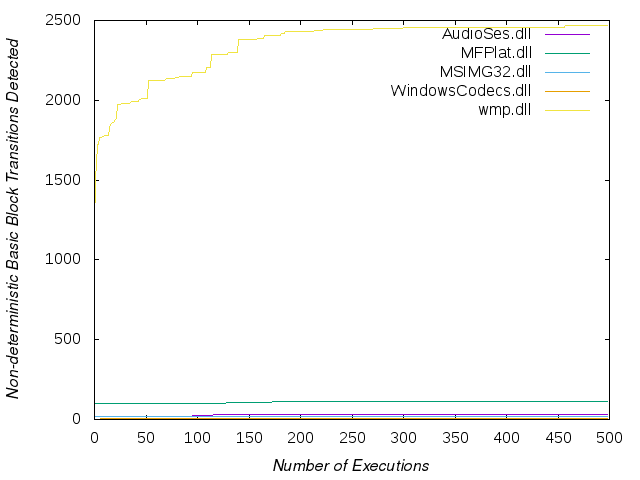
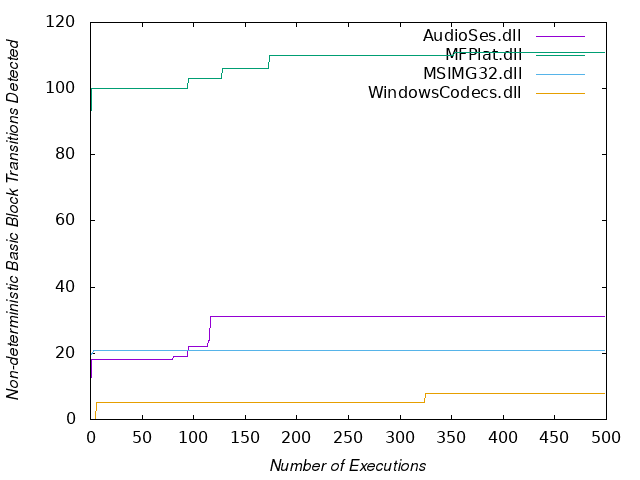
Changed figure 4 to be more readable and updated the text to speak to the numbers depicted in the graph

diff --git a/docs/paper/implementation.tex b/docs/paper/implementation.tex
@@ -417,12 +417,22 @@ deterministic fashion, the Picker accepts that the code in question is
 going to behave erratically and ignores the execution data related to those
 sections of code.  This is done by running the same input through the target
 \textit{N} times and finding all of the bytes in the coverage info which
-vary. By default, \textit{N} is 10, however it must be large enough that a
-significant number of executions did not identify any more bytes where the
-execution varied. This will vary from one target to another.  For Windows
-Media Player, this was around 500 executions.  % TODO: make sure the previous
-% sentence is accurate, and a reference to the graph recommended in the comment
-% below...
+vary. By default, \textit{N} is 10, however it should be large enough that a
+significant number of executions do not identify any more bytes where the
+execution varied. The correct value for N will vary from one target to another.
+The data for Windows Media Player, shown in Figure \ref{fig:picker}, indicates
+new non-deterministic code was being found after 325 executions. However, after
+10 executions, more than half of the non-deterministic transitions were
+identified for each of the four DLLs.
+
+Choosing the number of executions is a trade-off between spending time up front
+to get more efficient fuzzing, and getting started more quickly but being less
+efficient.  In addition to determining which libraries to instrument, the
+identified non-deterministic transitions can be used by some instrumentation
+modules in determining if an input caused new code paths to be found.  This is
+currently only implemented in the DynamoRIO instrumentation module, but will
+likely be implemented in the several of the instrumentation modules listed in
+the section on future work.
 
 \begin{figure*}[htb]
 \centering
